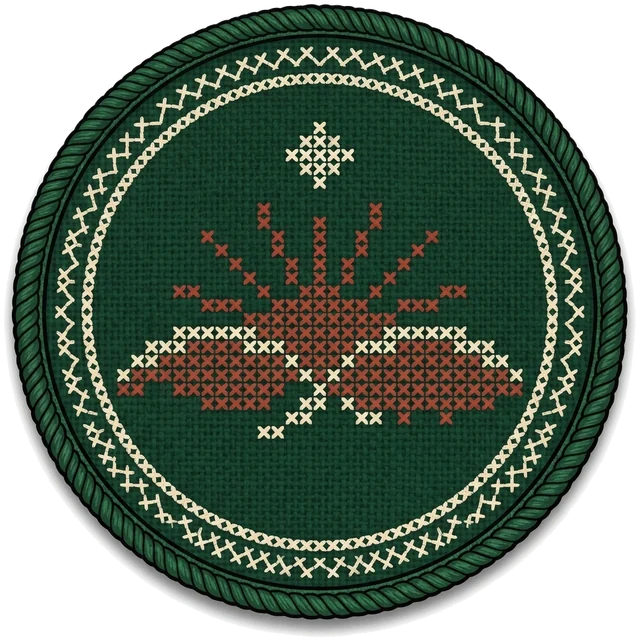
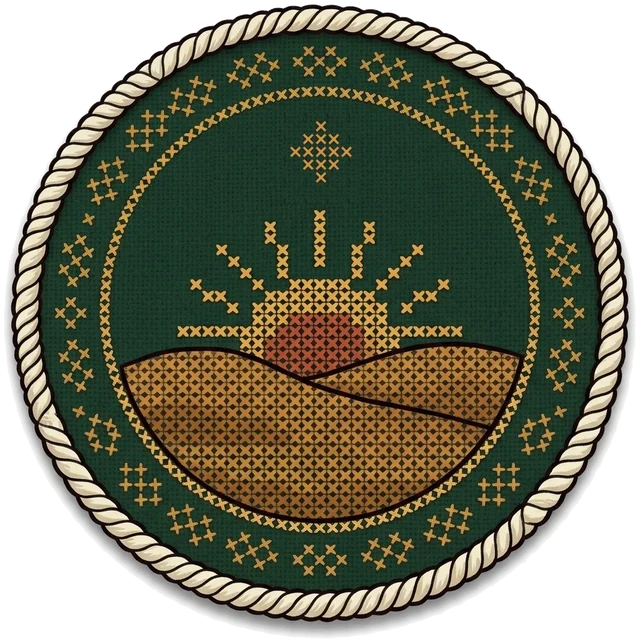
Two badges redrawn at the owner's word: עלות השחר rises over real hills (its star re-stitched by hand – the model had drawn a cross), and האוהל עומד is a wide Bedouin tent like ours
2 × $0.069 with the image tool.

diff --git a/figures/art/library/badges/README.md b/figures/art/library/badges/README.md
@@ -16,10 +16,10 @@ A round embroidered patch badge, drawn in exactly the same illustrated style as 
 - **rest_return** (fire): two lit Shabbat candles in simple candlesticks, side by side, soft glow around the flames
 - **rest_seven** (fire): two lit Shabbat candlesticks in the centre surrounded by a ring of seven small eight-pointed stars
 - **pole** (path): a single tall wooden tent pole standing upright with two taut ropes pegged to the ground
-- **standing** (path): a whole black Bedouin goat-hair tent standing proudly, its front open, two ropes and pegs
+- **standing** (path), redrawn on 2026-11-13 at the owner's word, with the tent's picture (`/assets/tent.webp`) as a second reference: a wide, low black Bedouin goat-hair tent like ours, its flat roof gently sagging between several poles (not a triangle), its front open on a woven striped interior, ropes out to pegs on both sides.
 - **journey** (path): a winding trail of small footprints climbing over gentle hills toward a little star
 - **tracker** (path): a magnifying glass over a line of footprints in the sand, a tracker reading the trail
-- **dawn** (path): the sun rising over two rounded hills with rays, the morning star still above
+- **dawn** (path), redrawn on 2026-11-13 at the owner's word: a half sun with straight rays rising from behind a clear horizon line of two wide, low, rounded desert hills (plainly hills of earth and sand, nothing like leaves), the morning star still above. *Edited by hand:* the model stitched the star as a cross; it was covered with the patch's own fabric and re-stitched as an eight-pointed star of gold cross-stitches.
 - **night** (path): a crescent moon and stars above a small glowing oil lantern
 - **traveller** (path): a camel walking over dunes with a small travel bundle on its back, a long road behind it
 - **gifts** (kin): three small tied cloth gift pouches with ribbons, one larger in the middle
